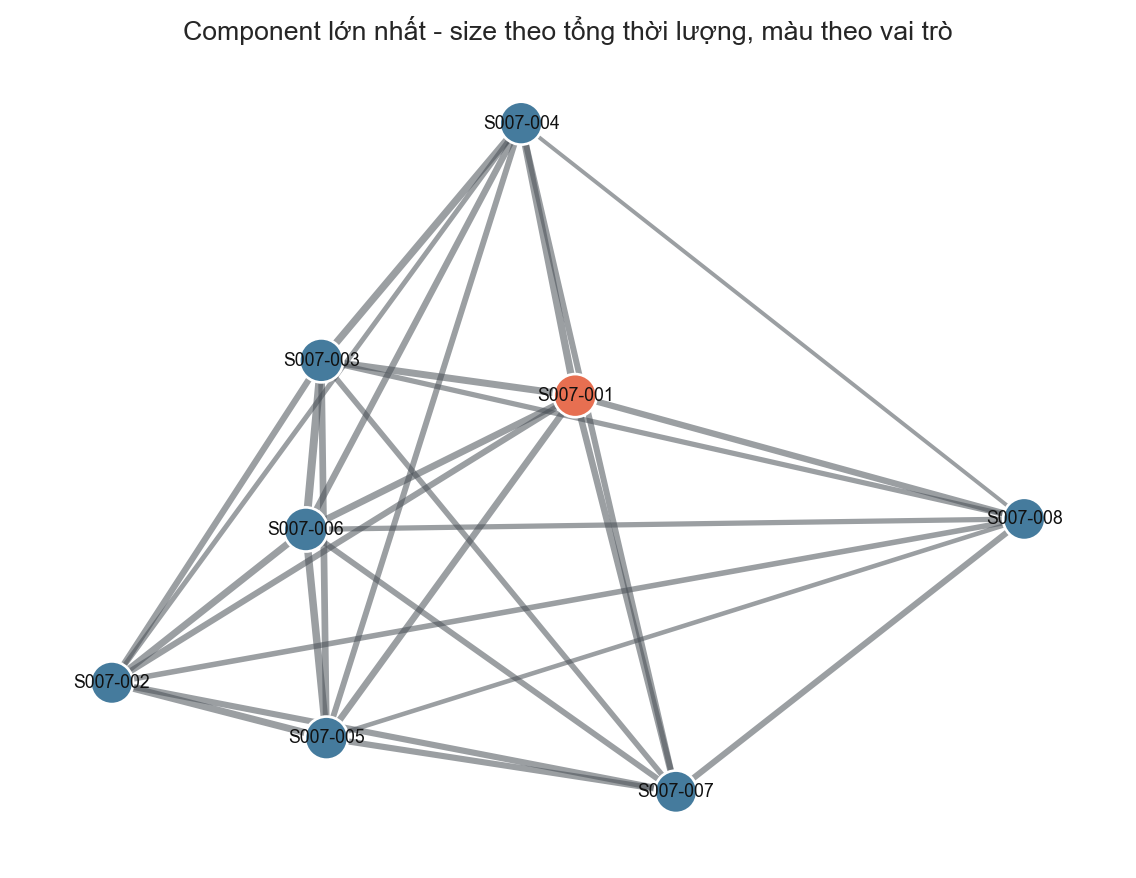
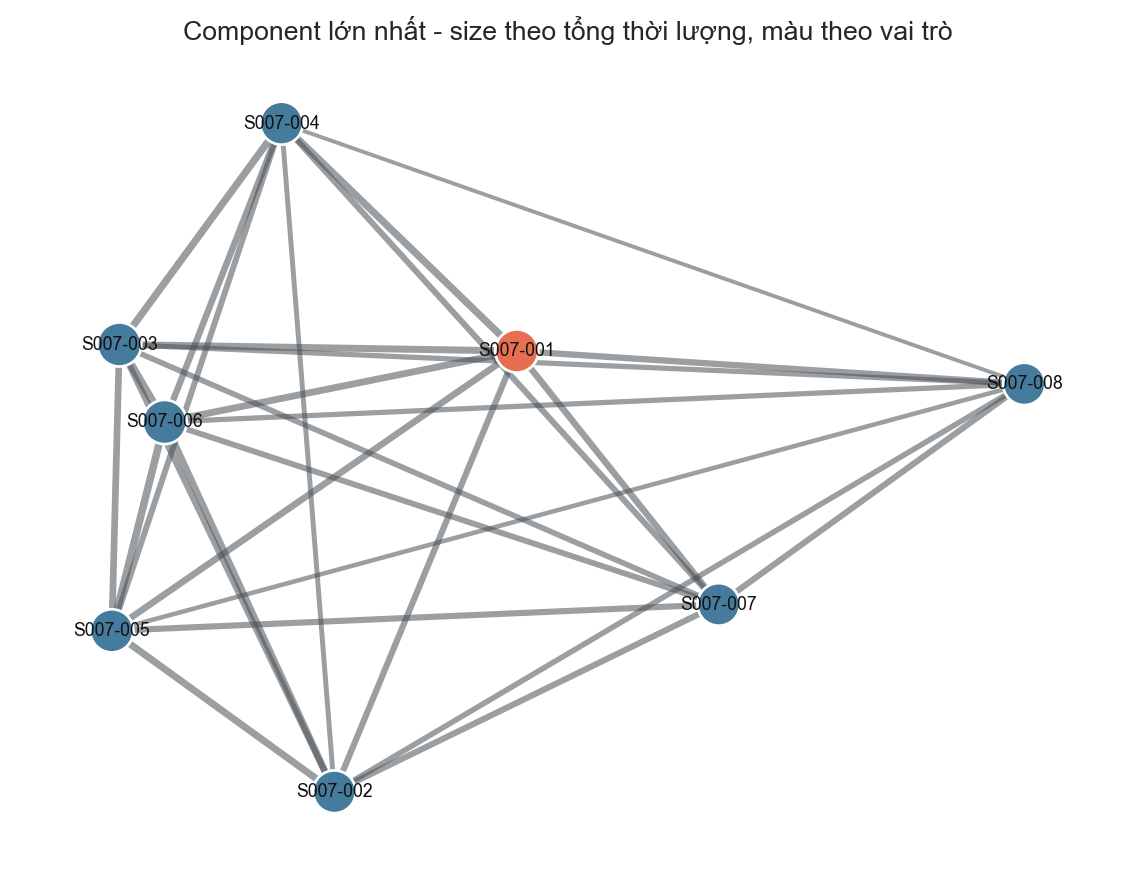
fix: stabilize topology report generation

Changed region(s): [[0.0616, 0.123, 0.9243, 0.9226]]

diff --git a/src/costtrace/reporting/notebooks.py b/src/costtrace/reporting/notebooks.py
@@ -405,8 +405,12 @@ NOTEBOOKS = {
         ),
         code(
             r"""
-            largest_nodes = max(nx.connected_components(G), key=len)
-            SG = G.subgraph(largest_nodes).copy()
+            largest_nodes = sorted(max(nx.connected_components(G), key=len))
+            SG = nx.Graph()
+            for node in largest_nodes:
+                SG.add_node(node, **G.nodes[node])
+            for u, v, attrs in sorted(G.subgraph(largest_nodes).edges(data=True)):
+                SG.add_edge(u, v, **attrs)
             deg = dict(SG.degree())
             wdeg = {
                 node: sum(float(attrs.get("total_duration_sec", 0.0)) for _, _, attrs in SG.edges(node, data=True))